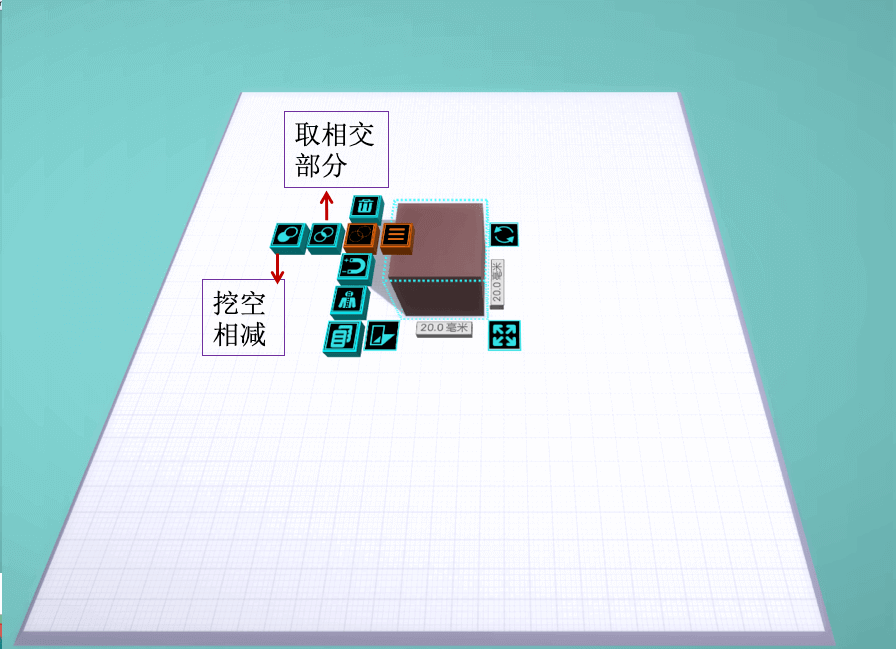
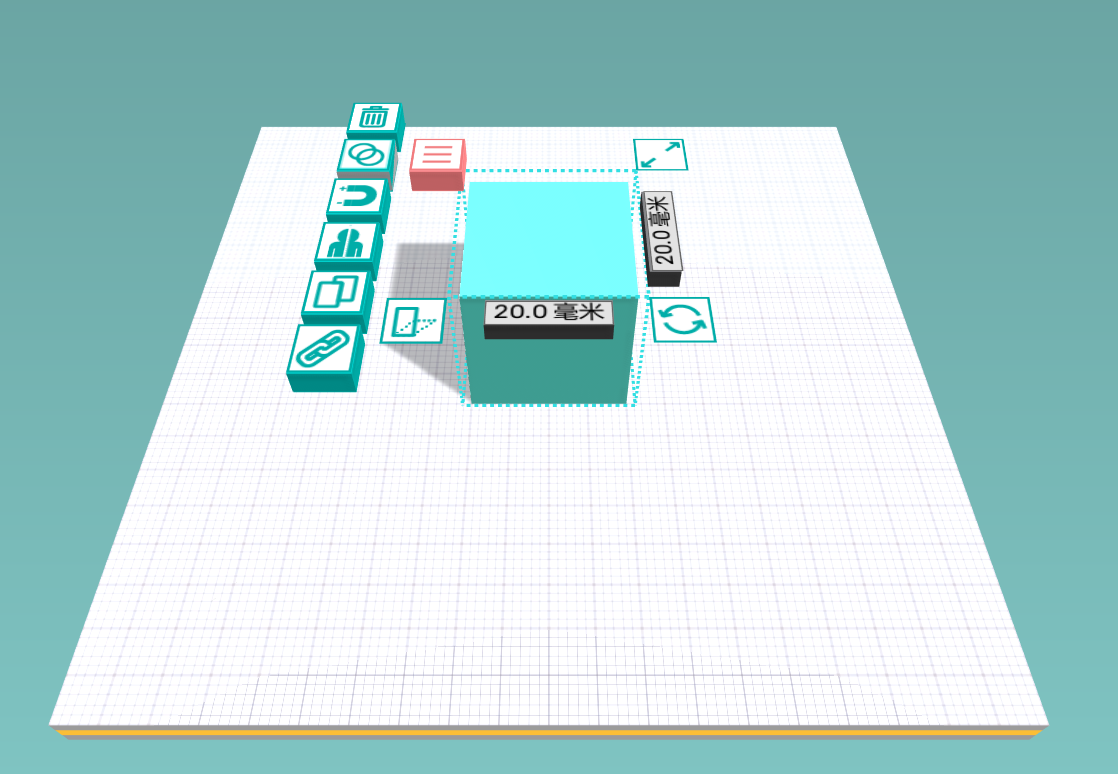
更新最新操作图片

diff --git a/weme_document.html b/weme_document.html
@@ -78,8 +78,10 @@
 				<p id="content">电脑上的操作：<br>1、改变视角---------点击并拖动鼠标左键或鼠标右键<br>2、移动网格位置---------点击并拖动鼠标中键<br>3、放大与缩小视角---------滚动鼠标的滚轮<br> <br>   手机或平板上的操作：<br>1、改变视角、移动网格位置---------点住并拖动屏幕<br>2、放大与缩小视角---------两指按住屏幕往外滑，放大；两指往内滑，图片就是缩小</p>
 				<h4>基本指令介绍（主视视角，俯视视角指令相同）</h4>
 				<img src="img/document/page_design_viewports.png" style="width: 600px;height: 400px;" />
-				<h4>基本指令介绍（侧视视角）</h4>
-				<img src="img/document/page_design_viewports_top.png" style="width: 600px;height: 450px;" />
+				<h4>自由缩放</h4>
+				<img src="img/document/page_design_scale_random.png" style="width: 600px;height: 450px;" />
+				<h4>等比例缩放</h4>
+				<img src="img/document/page_design_scale_align.png" style="width: 600px;height: 450px;" />
 				<h4>保存</h4>
 				<img src="img/document/page_design_save.png" style="width: 600px;height: 360px;" />
 				<h4>导出为STL文件（电脑8步导出）</h4>
